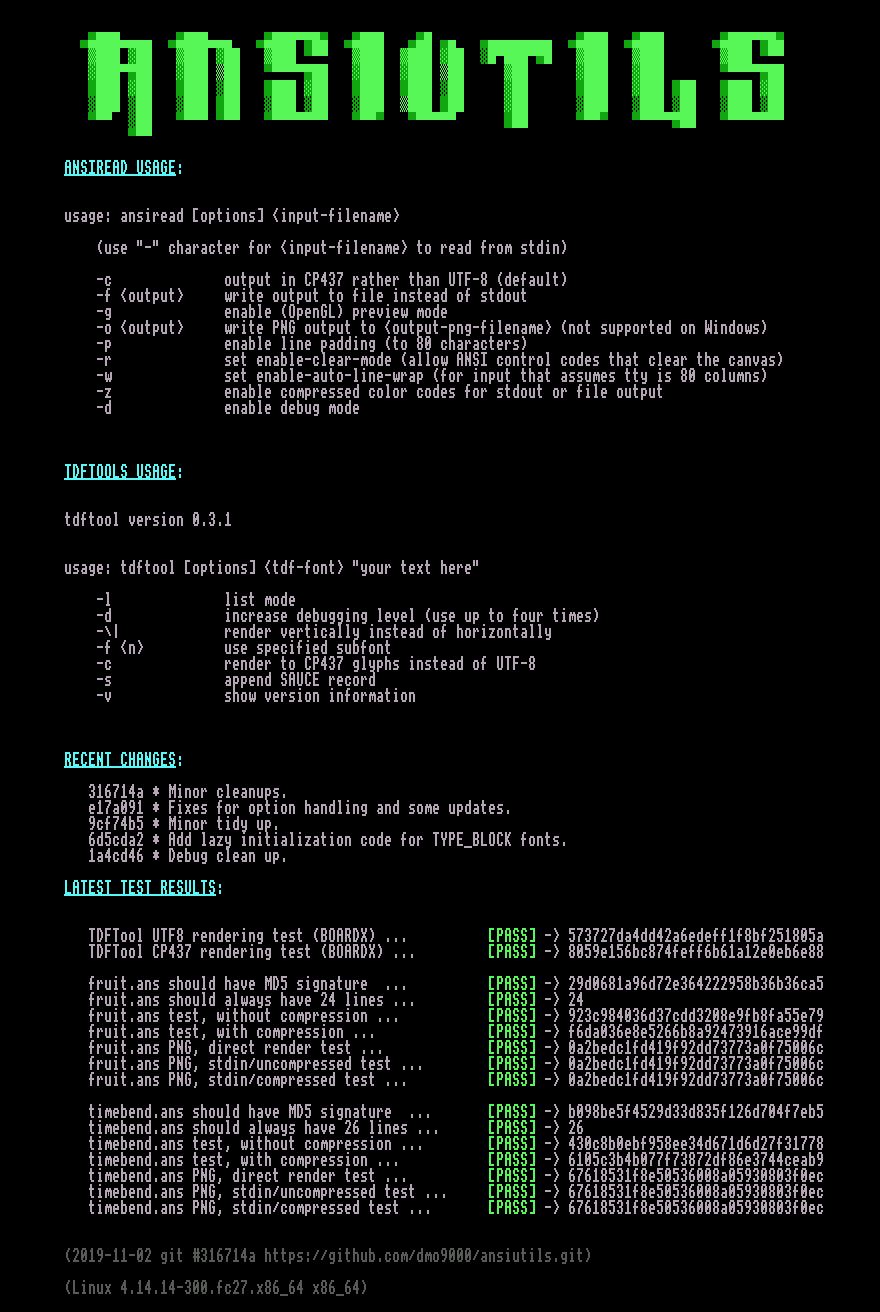
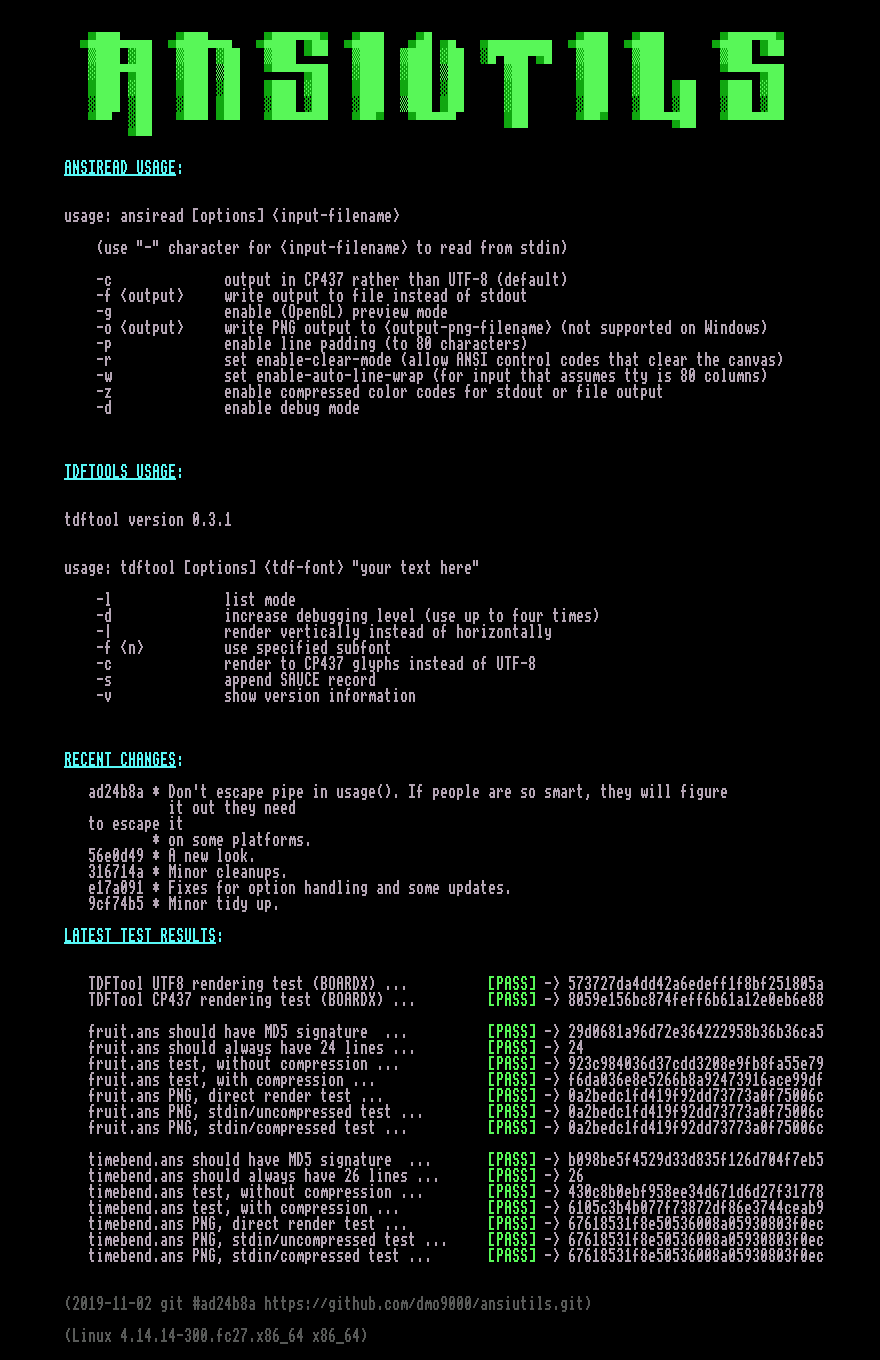
Updated doc.

diff --git a/ansiutils.html b/ansiutils.html
@@ -47,7 +47,7 @@
 <span style="color:white;background-color:black;">        </span>
 <span style="color:white;background-color:black;">            -l              list mode</span>
 <span style="color:white;background-color:black;">            -d              increase debugging level (use up to four times)</span>
-<span style="color:white;background-color:black;">            -\|             render vertically instead of horizontally</span>
+<span style="color:white;background-color:black;">            -|              render vertically instead of horizontally</span>
 <span style="color:white;background-color:black;">            -f &lt;n&gt;          use specified subfont</span>
 <span style="color:white;background-color:black;">            -c              render to CP437 glyphs instead of UTF-8</span>
 <span style="color:white;background-color:black;">            -s              append SAUCE record</span>
@@ -57,11 +57,14 @@
 
 	<span style="color:aqua;"></span><span style="text-decoration:underline;color:aqua;"></span><span style="text-decoration:underline;font-weight:bold;color:aqua;">RECENT CHANGES</span><span style="font-weight:bold;color:aqua;">:</span><span style="color:aqua;"></span>
 
+<span style="color:white;background-color:black;">           ad24b8a * Don't escape pipe in usage(). If people are so smart, they will figure</span>
+<span style="color:white;background-color:black;">                     it out they need</span>
+<span style="color:white;background-color:black;">           to escape it</span>
+<span style="color:white;background-color:black;">                   * on some platforms.</span>
+<span style="color:white;background-color:black;">           56e0d49 * A new look.</span>
 <span style="color:white;background-color:black;">           316714a * Minor cleanups.</span>
 <span style="color:white;background-color:black;">           e17a091 * Fixes for option handling and some updates.</span>
 <span style="color:white;background-color:black;">           9cf74b5 * Minor tidy up.</span>
-<span style="color:white;background-color:black;">           6d5cda2 * Add lazy initialization code for TYPE_BLOCK fonts.</span>
-<span style="color:white;background-color:black;">           1a4cd46 * Debug clean up.</span>
 
 	<span style="color:aqua;"></span><span style="text-decoration:underline;color:aqua;"></span><span style="text-decoration:underline;font-weight:bold;color:aqua;">LATEST TEST RESULTS</span><span style="font-weight:bold;color:aqua;">:</span><span style="color:aqua;"></span>
 
@@ -86,7 +89,7 @@
 <span style="color:white;background-color:black;">           timebend.ans PNG, stdin/compressed test ...       </span><span style="color:lime;background-color:black;"></span><span style="font-weight:bold;color:lime;background-color:black;">[PASS]</span><span style="font-weight:bold;color:white;background-color:black;"></span><span style="color:white;background-color:black;"> -&gt; 67618531f8e50536008a05930803f0ec </span>
 <span style="color:white;background-color:black;">           </span>
 
-	<span style="color:dimgray;"></span><span style="font-weight:bold;color:dimgray;">(2019-11-02 git #316714a https://github.com/dmo9000/ansiutils.git)</span><span style="color:dimgray;"></span>
+	<span style="color:dimgray;"></span><span style="font-weight:bold;color:dimgray;">(2019-11-02 git #ad24b8a https://github.com/dmo9000/ansiutils.git)</span><span style="color:dimgray;"></span>
 
 	<span style="color:dimgray;"></span><span style="font-weight:bold;color:dimgray;">(Linux 4.14.14-300.fc27.x86_64 x86_64)</span><span style="color:dimgray;"></span>
                                                                                                               
